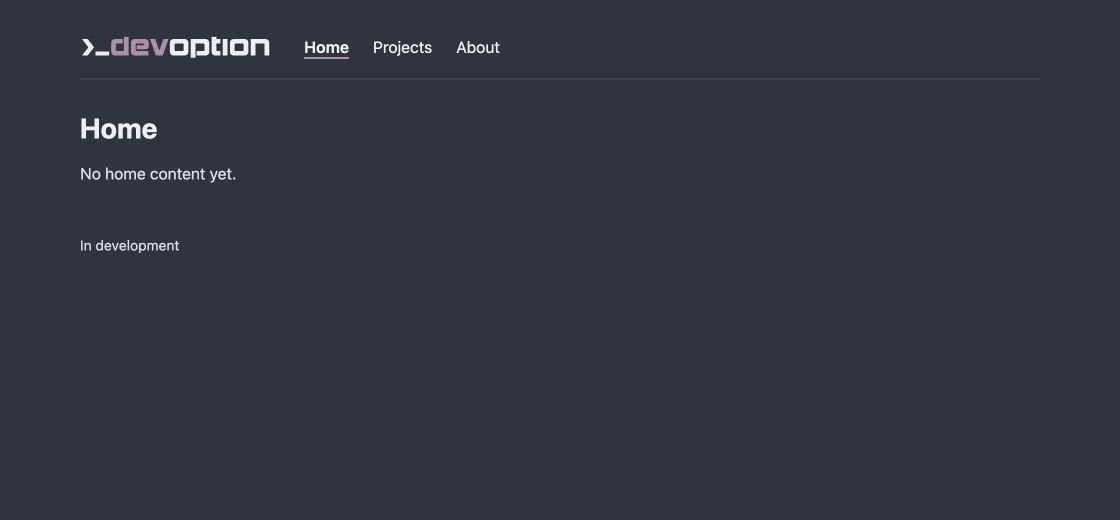
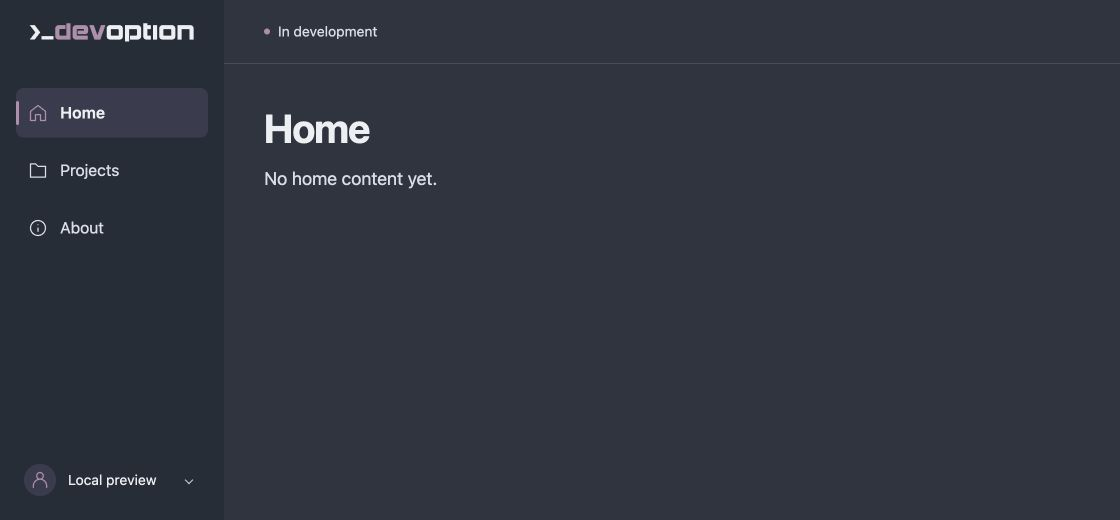
feat: add the approved sidebar shell
Refs #27

diff --git a/crates/devoption-ui/assets/theme.css b/crates/devoption-ui/assets/theme.css
@@ -1,46 +1,136 @@
 :root {
   color-scheme: dark;
   --color-background: #2e3440;
+  --color-sidebar: #252d38;
+  --color-surface: #3b4252;
   --color-text: #eceff4;
   --color-muted: #d8dee9;
   --color-primary: #b48ead;
   --color-border: #434c5e;
   --space-1: 0.25rem;
   --space-2: 0.5rem;
+  --space-3: 0.75rem;
   --space-4: 1rem;
   --space-6: 1.5rem;
   --space-8: 2rem;
+  --space-10: 2.5rem;
   --font-body: system-ui, sans-serif;
   --text-body: 1rem;
-  --text-heading: 1.75rem;
+  --text-heading: 2.5rem;
   --text-small: 0.875rem;
   --line-height: 1.6;
 }
 
+* { box-sizing: border-box; }
 body {
-  margin: 0 auto;
-  max-width: 60rem;
-  padding: var(--space-4);
+  margin: 0;
+  display: grid;
+  grid-template-columns: 14rem minmax(0, 1fr);
+  min-height: 100vh;
   font: var(--text-body)/var(--line-height) var(--font-body);
   color: var(--color-text);
   background: var(--color-background);
 }
-
-a { color: inherit; text-underline-offset: var(--space-1); }
-a:hover { text-decoration-color: var(--color-primary); }
-a:focus-visible { outline: 2px solid var(--color-primary); outline-offset: 4px; }
-.skip-link { position: absolute; top: var(--space-4); left: var(--space-4); padding: var(--space-2); background: var(--color-background); transform: translateY(-200%); }
+a { color: inherit; text-decoration: none; }
+button, summary { color: inherit; font: inherit; cursor: pointer; }
+button { border: 0; }
+a:focus-visible, button:focus-visible, summary:focus-visible {
+  outline: 2px solid var(--color-primary);
+  outline-offset: 4px;
+}
+.skip-link {
+  position: fixed;
+  z-index: 2;
+  top: var(--space-4);
+  left: var(--space-4);
+  padding: var(--space-2) var(--space-4);
+  background: var(--color-surface);
+  border-radius: var(--space-2);
+  transform: translateY(-200%);
+}
 .skip-link:focus { transform: none; }
-header { display: flex; flex-wrap: wrap; align-items: center; gap: var(--space-4) var(--space-8); padding: var(--space-4) 0; border-bottom: 1px solid var(--color-border); }
-.brand { display: flex; align-items: center; color: var(--color-text); }
-.brand:hover { color: var(--color-text); }
-.brand-mark { display: block; width: 12rem; max-width: 100%; height: auto; }
+.sidebar {
+  position: sticky;
+  top: 0;
+  height: 100vh;
+  height: 100dvh;
+  display: flex;
+  flex-direction: column;
+  padding: 0 var(--space-4) var(--space-4);
+  background: var(--color-sidebar);
+}
+.brand { display: flex; align-items: center; height: 4rem; flex-shrink: 0; padding: 0 var(--space-3); }
+.brand-mark { display: block; width: 10.5rem; max-width: 100%; height: auto; }
 .brand-dev { color: var(--color-primary); }
-nav { display: flex; align-items: center; gap: var(--space-6); }
-nav a { text-decoration: none; }
-nav a:hover, nav a[aria-current] { text-decoration: underline; text-decoration-color: var(--color-primary); text-decoration-thickness: 2px; }
-nav a[aria-current] { font-weight: 600; }
-main { padding: var(--space-8) 0; }
-h1 { margin: 0 0 var(--space-4); font-size: var(--text-heading); line-height: 1.2; }
+.icon { width: 1.25rem; height: 1.25rem; flex-shrink: 0; }
+nav { display: flex; flex-direction: column; gap: var(--space-2); margin-top: var(--space-6); }
+nav a {
+  position: relative;
+  display: flex;
+  align-items: center;
+  gap: var(--space-3);
+  padding: var(--space-3);
+  border-radius: var(--space-2);
+  color: var(--color-muted);
+}
+nav a:hover, .profile-trigger:hover { background: var(--color-surface); }
+nav a[aria-current] { background: #393c4e; color: var(--color-text); font-weight: 600; }
+nav a[aria-current] .icon { color: var(--color-primary); }
+nav a[aria-current]::before {
+  content: "";
+  position: absolute;
+  left: 0;
+  height: 1.5rem;
+  width: 3px;
+  border-radius: 2px;
+  background: var(--color-primary);
+}
+.workspace { min-width: 0; }
+.content-header { height: 4rem; display: flex; align-items: center; padding: 0 var(--space-10); border-bottom: 1px solid var(--color-border); }
+.stage { display: flex; align-items: center; gap: var(--space-2); font-size: var(--text-small); }
+.stage span { width: 6px; height: 6px; border-radius: 50%; background: var(--color-primary); }
+main { padding: var(--space-10); }
+h1 { margin: 0 0 var(--space-3); font-size: var(--text-heading); line-height: 1.2; letter-spacing: -0.03em; }
 p { margin: 0; color: var(--color-muted); }
-footer { padding-top: var(--space-4); font-size: var(--text-small); color: var(--color-muted); }
+main > p { font-size: 1.125rem; max-width: 42rem; }
+.profile-area { margin-top: auto; padding-top: var(--space-8); }
+.profile-trigger { display: flex; align-items: center; gap: var(--space-3); width: 100%; padding: var(--space-2); border-radius: var(--space-2); background: transparent; font-size: var(--text-small); text-align: left; }
+.profile-avatar { display: grid; place-items: center; width: 2rem; height: 2rem; border-radius: 50%; color: var(--color-primary); background: #393c4e; flex-shrink: 0; }
+.chevron { width: 6px; height: 6px; margin-left: auto; margin-right: var(--space-2); border-right: 1px solid var(--color-muted); border-bottom: 1px solid var(--color-muted); transform: rotate(45deg); }
+#profile-popup {
+  position: fixed;
+  inset: auto auto 5rem var(--space-4);
+  margin: 0;
+  width: 16.5rem;
+  max-width: calc(100vw - 2rem);
+  max-height: calc(100dvh - 6rem);
+  overflow-y: auto;
+  padding: var(--space-4);
+  border: 1px solid var(--color-border);
+  border-radius: var(--space-3);
+  background: var(--color-surface);
+  color: var(--color-text);
+  box-shadow: 0 12px 32px #0003;
+}
+#profile-popup h2 { margin: 0 0 var(--space-1); font-size: var(--text-body); font-weight: 600; }
+.profile-note { font-size: var(--text-small); }
+.appearance { margin-top: var(--space-4); }
+.appearance summary { padding: var(--space-2) 0; }
+.theme-preview { display: flex; align-items: center; gap: var(--space-3); padding-top: var(--space-3); }
+.theme-preview small { display: block; font-size: 0.75rem; color: var(--color-muted); }
+.theme-swatch { width: 2rem; height: 2rem; border-radius: var(--space-2); border: 1px solid var(--color-primary); background: linear-gradient(135deg, var(--color-background) 60%, var(--color-primary) 60%); }
+
+@media (max-width: 44rem) {
+  body { grid-template-columns: minmax(0, 1fr); grid-template-rows: auto 1fr; }
+  .sidebar { position: relative; height: auto; }
+  .brand { padding-left: var(--space-2); padding-right: 4rem; }
+  nav { flex-direction: row; gap: var(--space-1); margin-top: var(--space-2); }
+  nav a { flex: 1; justify-content: center; gap: var(--space-2); padding: var(--space-2); font-size: var(--text-small); }
+  .profile-area { position: absolute; top: var(--space-2); right: var(--space-4); padding: 0; }
+  .profile-trigger { padding: var(--space-2); }
+  .profile-label, .chevron { display: none; }
+  #profile-popup { inset: 4rem var(--space-4) auto auto; }
+  .content-header { height: 3.5rem; padding: 0 var(--space-6); }
+  main { padding: var(--space-8) var(--space-6); }
+  h1 { font-size: 2rem; }
+}

diff --git a/crates/devoption-ui/src/lib.rs b/crates/devoption-ui/src/lib.rs
@@ -21,20 +21,28 @@ pub fn render(page: Page) -> String {
         Page::About => ("About", "/about", "No about content yet."),
     };
     let navigation: String = [
-        ("/", "Home"),
-        ("/projects", "Projects"),
-        ("/about", "About"),
+        ("/", "Home", "M3 10 12 3l9 7v11h-6v-7H9v7H3Z"),
+        ("/projects", "Projects", "M3 7V4h6l3 3h9v13H3Z"),
+        (
+            "/about",
+            "About",
+            "M12 16v-4M12 8h.01M21 12a9 9 0 1 1-18 0a9 9 0 0 1 18 0",
+        ),
     ]
     .into_iter()
-    .map(|(href, label)| {
+    .map(|(href, label, icon_path)| {
         let current = if href == path {
             " aria-current=\"page\""
         } else {
             ""
         };
-        format!("<a href=\"{href}\"{current}>{label}</a>")
+        format!(
+            "<a href=\"{href}\"{current}>{}<span>{label}</span></a>",
+            icon(icon_path)
+        )
     })
     .collect();
+    let profile_icon = icon("M20 21v-2a8 8 0 0 0-16 0v2M16 7a4 4 0 1 1-8 0a4 4 0 0 1 8 0");
 
     format!(
         "<!doctype html>
@@ -47,16 +55,38 @@ pub fn render(page: Page) -> String {
 </head>
 <body>
   <a class=\"skip-link\" href=\"#main-content\">Skip to content</a>
-  <header>
+  <aside class=\"sidebar\" aria-label=\"Sidebar\">
     <a class=\"brand\" href=\"/\" aria-label=\"DevOption home\">{LOGO}</a>
     <nav aria-label=\"Main navigation\">{navigation}</nav>
-  </header>
-  <main id=\"main-content\" tabindex=\"-1\">
-    <h1>{title}</h1>
-    <p>{message}</p>
-  </main>
-  <footer>In development</footer>
+    <div class=\"profile-area\">
+      <button class=\"profile-trigger\" type=\"button\" popovertarget=\"profile-popup\" aria-label=\"Profile menu\">
+        <span class=\"profile-avatar\">{profile_icon}</span>
+        <span class=\"profile-label\">Local preview</span><span class=\"chevron\" aria-hidden=\"true\"></span>
+      </button>
+      <section id=\"profile-popup\" popover aria-labelledby=\"profile-title\">
+        <h2 id=\"profile-title\">Local preview</h2>
+        <p class=\"profile-note\">Account features are not available yet.</p>
+        <details class=\"appearance\">
+          <summary>Appearance</summary>
+          <p class=\"theme-preview\"><span class=\"theme-swatch\" aria-hidden=\"true\"></span><span>Nord purple<small>Current theme</small></span></p>
+        </details>
+      </section>
+    </div>
+  </aside>
+  <div class=\"workspace\">
+    <header class=\"content-header\"><p class=\"stage\"><span aria-hidden=\"true\"></span>In development</p></header>
+    <main id=\"main-content\" tabindex=\"-1\">
+      <h1>{title}</h1>
+      <p>{message}</p>
+    </main>
+  </div>
 </body>
 </html>"
+    )
+}
+
+fn icon(path: &str) -> String {
+    format!(
+        "<svg class=\"icon\" viewBox=\"0 0 24 24\" fill=\"none\" stroke=\"currentColor\" stroke-width=\"1.5\" stroke-linecap=\"round\" stroke-linejoin=\"round\" aria-hidden=\"true\" focusable=\"false\"><path d=\"{path}\"/></svg>"
     )
 }

diff --git a/crates/devoption-cli/tests/server.rs b/crates/devoption-cli/tests/server.rs
@@ -100,12 +100,31 @@ fn pages_share_layout_and_have_working_navigation() {
             } else {
                 ""
             };
-            assert!(navigation.contains(&format!("<a href=\"{href}\"{current}>{label}</a>")));
+            let link = navigation
+                .split_once(&format!("<a href=\"{href}\"{current}>"))
+                .unwrap()
+                .1
+                .split_once("</a>")
+                .unwrap()
+                .0;
+            assert!(link.contains(&format!("<span>{label}</span>")));
         }
         assert_eq!(body.matches("aria-current=\"page\"").count(), 1);
         assert!(body.contains("href=\"#main-content\""));
         assert!(body.contains("<main id=\"main-content\" tabindex=\"-1\">"));
-        assert!(body.contains("<footer>In development</footer>"));
+        assert!(body.contains("<header class=\"content-header\">"));
+        assert!(body.contains("In development</p>"));
+        assert!(body.contains("popovertarget=\"profile-popup\" aria-label=\"Profile menu\""));
+        let (before, popup) = body
+            .split_once("<section id=\"profile-popup\" popover aria-labelledby=\"profile-title\">")
+            .unwrap();
+        let (popup, after) = popup.split_once("</section>").unwrap();
+        assert!(popup.contains("id=\"profile-title\""));
+        assert!(popup.contains("Account features are not available yet."));
+        assert!(popup.contains("<summary>Appearance</summary>"));
+        assert!(popup.contains("Nord purple"));
+        assert!(!before.contains("Nord purple"));
+        assert!(!after.contains("Nord purple"));
 
         let head = request(
             address,

diff --git a/README.md b/README.md
@@ -6,14 +6,14 @@ factory: a place to manage the work of building, testing, and running software.
 **Today this repository is a small foundation, not a working software factory.**
 It contains a Rust workspace, a command-line program with a localhost-only HTTP
 server, behavioral tests, and contribution and release checks. The server shows
-empty Home, Projects, and About pages with shared navigation. It does not create
+empty Home, Projects, and About pages in a shared sidebar layout. It does not create
 files, provision infrastructure, or contact a service. There is no installer,
 project management, runtime cluster, or published release yet.
 
 ## Screenshots
 
 These are the current local Home, Projects, and About pages. All are empty
-placeholders; the screenshots show the shared header, navigation, and theme only.
+placeholders; the screenshots show the shared sidebar, header, and theme only.
 
 **Home (`/`)**
 
@@ -70,14 +70,18 @@ curl --include http://127.0.0.1:3000/
 ```
 
 Open **http://127.0.0.1:3000/** in your browser. Home (`/`), Projects (`/projects`),
-and About (`/about`) share a header and navigation, with the current page marked.
+and About (`/about`) share a sidebar and header, with the current page marked.
 All three pages are clearly empty placeholders; there are no project controls
 or data yet.
 
-The header uses the approved DevOption SVG. Its `dev` lettering follows the
+The sidebar uses the approved DevOption SVG. Its `dev` lettering follows the
 primary purple color in the basic [Nord palette](https://www.nordtheme.com/docs/colors-and-palettes/).
 Shared color, spacing, and typography values live in
-`crates/devoption-ui/assets/theme.css`. There is no theme chooser yet.
+`crates/devoption-ui/assets/theme.css`. The profile button opens a small local-preview
+popup; its **Appearance** section shows the current theme. Account features and
+theme switching are not implemented. The popup uses native HTML popover support
+in modern browsers; Escape or a click outside closes it. On narrow screens,
+navigation moves above the content.
 
 GET returns HTTP 200 with HTML for each page; HEAD returns headers without a
 body. Unknown paths return 404; unsupported methods on these pages return 405.

diff --git a/docs/screenshots/README.md b/docs/screenshots/README.md
@@ -18,7 +18,7 @@ cargo run --locked --offline -- serve
 1. If source or assets changed, stop and restart the server, then refresh the page.
    The HTML, CSS, and SVG are compiled into the executable.
 2. Set the browser content viewport to **1120 × 520 pixels**, at **100% zoom**.
-   Use the app's default Nord theme; there is currently no theme setting.
+   Use the app's fixed Nord theme; Appearance currently only displays its name.
 3. Open each affected URL at the top of the page. Leave no hover, keyboard-focus
    outline, open menu, or developer overlay in the capture.
 4. Capture the browser content viewport as JPEG, excluding browser/desktop chrome.

diff --git a/CHANGELOG.md b/CHANGELOG.md
@@ -36,6 +36,10 @@ Entries describe implemented changes, not the roadmap.
 
 ### Changed
 
+- Recreated the approved sidebar/header shell, with spacious content, responsive
+  navigation, and a compact local-preview popup containing read-only Appearance
+  information; refreshed all main-page screenshots
+  ([#27](https://github.com/devoption/devoption/issues/27)).
 - Extracted the existing renderer and CSS/SVG assets into a dependency-free
   `devoption-ui` library; the CLI keeps HTTP handling and remains the only binary.
   Page output and screenshots are unchanged
